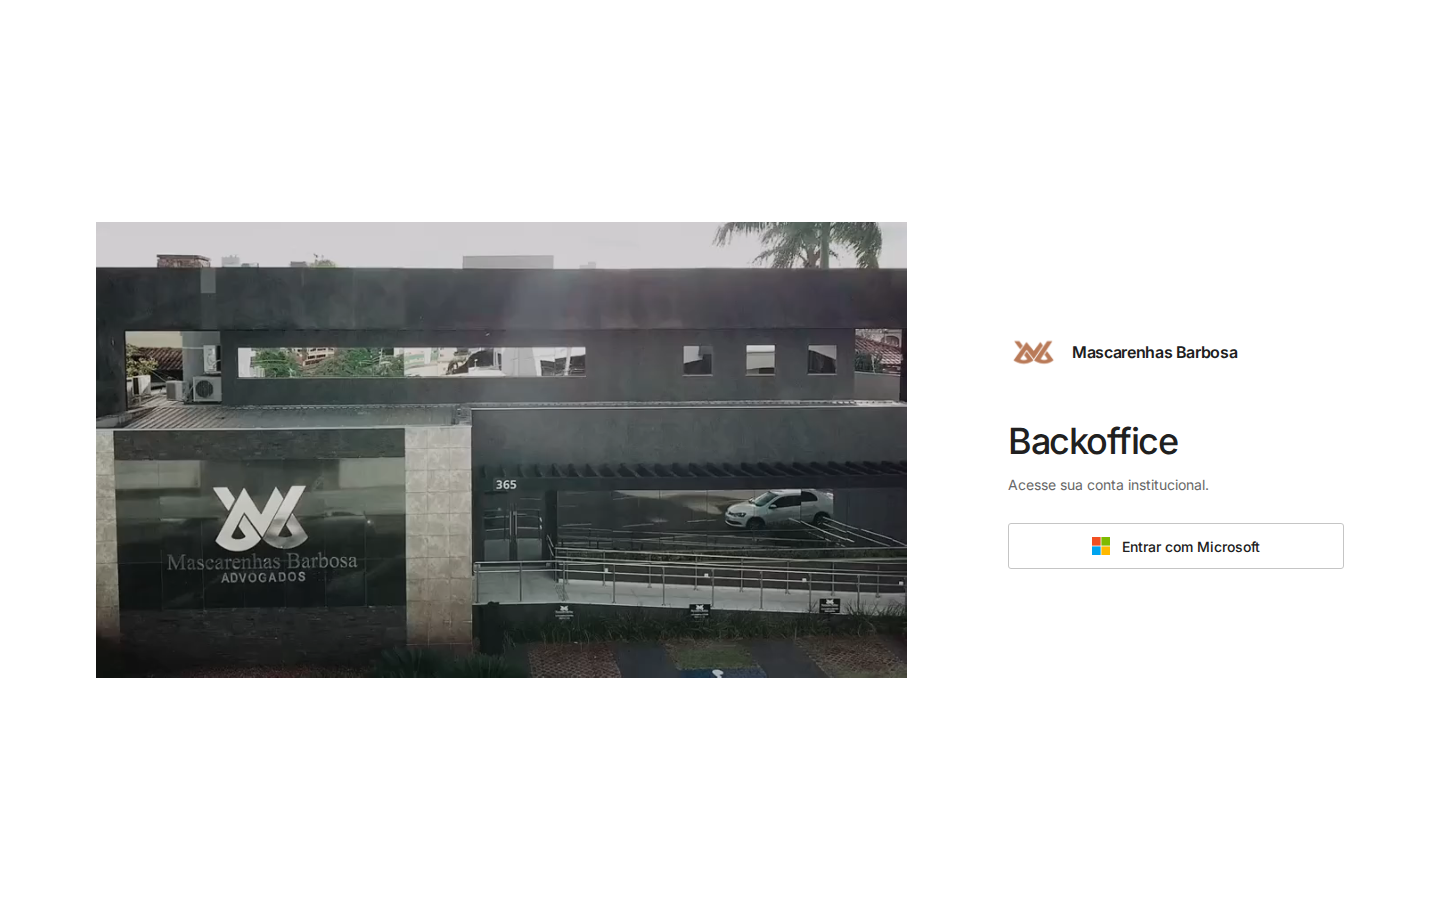
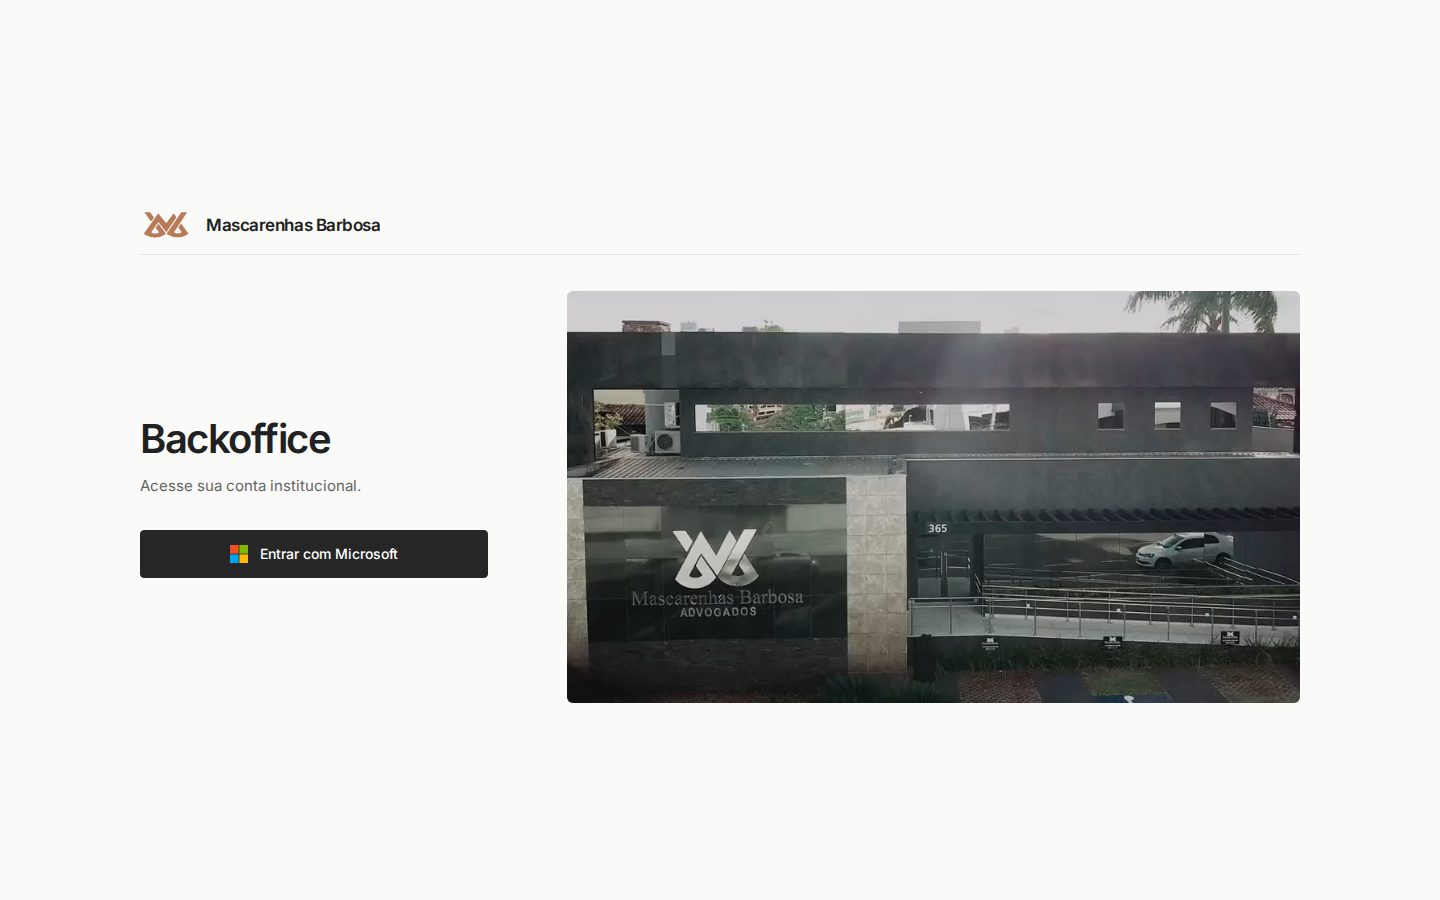
design: restore lateral Backoffice login and validate responsive composition

diff --git a/prototypes/landing.html b/prototypes/landing.html
@@ -2,54 +2,100 @@
 <html lang="pt-BR">
 <head>
 <meta charset="utf-8">
-<meta name="viewport" content="width=device-width,initial-scale=1">
+<meta name="viewport" content="width=device-width, initial-scale=1">
 <title>Backoffice | Mascarenhas Barbosa</title>
 <link rel="icon" href="../favicon-copper.svg">
 <link rel="preconnect" href="https://fonts.googleapis.com">
 <link rel="preconnect" href="https://fonts.gstatic.com" crossorigin>
 <link href="https://fonts.googleapis.com/css2?family=Inter:wght@400;500;600&display=swap" rel="stylesheet">
 <style>
-:root{color-scheme:light;--ink:#202020;--muted:#686868;--paper:#fff;--copper:#b97a58}
-*{box-sizing:border-box}
-html,body{margin:0;min-height:100%;background:var(--paper);color:var(--ink);font-family:Inter,Arial,sans-serif;-webkit-font-smoothing:antialiased}
-.page{min-height:100vh;min-height:100svh;display:grid;place-items:center;padding:64px 56px}
-.composition{width:100%;max-width:1248px;display:grid;grid-template-columns:minmax(0,1fr) minmax(280px,336px);gap:clamp(56px,7vw,104px);align-items:center}
-.film{width:100%;aspect-ratio:910/512;margin:0;background:#e9e9e7;overflow:hidden}
-.film video{display:block;width:100%;height:100%;object-fit:contain}
-.access{min-width:0}
-.brand{display:flex;align-items:center;gap:13px;margin-bottom:46px}
-.brand img{display:block;width:51px;height:43px;object-fit:contain;flex:none}
-.brand-name{font-size:16px;font-weight:600;letter-spacing:-.35px;line-height:1.25}
-h1{font-size:36px;font-weight:500;line-height:1.2;letter-spacing:-1.5px;margin:0 0 10px}
-.description{font-size:14px;line-height:1.65;color:var(--muted);margin:0 0 27px}
-.microsoft{width:100%;min-height:46px;display:flex;align-items:center;justify-content:center;gap:12px;padding:12px 16px;border:1px solid #c5c5c5;border-radius:3px;background:white;color:var(--ink);font:500 14px Inter,Arial,sans-serif;cursor:pointer}
-.microsoft svg{width:18px;height:18px;flex:none}
-.microsoft:hover{background:#f6f6f6;border-color:#969696}
-.microsoft:focus-visible{outline:2px solid #946044;outline-offset:3px}
-.status{font-size:13px;color:var(--muted);line-height:1.5;margin:14px 0 0}.status[hidden]{display:none}
-@media(max-width:1024px){.page{padding:48px 36px}.composition{grid-template-columns:minmax(0,1fr) minmax(260px,300px);gap:48px}}
-@media(max-width:720px){.page{padding:36px 26px;place-items:center}.composition{max-width:440px;grid-template-columns:1fr;gap:32px}.access{display:contents}.brand{grid-row:1;margin:0}.film{grid-row:2}.credentials{grid-row:3}h1{font-size:32px}.description{margin-bottom:22px}}
-@media(prefers-reduced-motion:reduce){.film video{display:none}.film{background:#e9e9e7 url('../assets/mascarenhas-login-poster.jpg') center/contain no-repeat}}
+:root {
+  color-scheme: light;
+  --paper: #fafaf9;
+  --ink: #202120;
+  --muted: #646563;
+  --copper: #b97a58;
+  --line: #e2e1de;
+}
+*, *::before, *::after { box-sizing: border-box; }
+html, body { margin: 0; min-height: 100%; }
+body { background: var(--paper); color: var(--ink); font-family: Inter, Arial, sans-serif; -webkit-font-smoothing: antialiased; }
+.page { min-height: 100vh; min-height: 100svh; display: flex; flex-direction: column; justify-content: center; padding-block: 48px; }
+.frame { width: min(1160px, calc(100% - 112px)); margin-inline: auto; }
+.masthead { flex: none; }
+.masthead .frame { height: 58px; display: flex; align-items: center; border-bottom: 1px solid var(--line); }
+.brand { display: inline-flex; align-items: center; gap: 14px; }
+.brand img { display: block; width: 52px; height: 48px; object-fit: contain; }
+.brand-name { font-size: 17px; font-weight: 600; line-height: 1.3; letter-spacing: -.45px; }
+.main { flex: none; display: grid; align-items: center; padding-block: 36px 0; }
+.composition { display: grid; grid-template-columns: minmax(300px, 348px) minmax(0, 1fr); gap: clamp(48px, 5.5vw, 80px); align-items: center; }
+.access { min-width: 0; width: 100%; max-width: 348px; }
+h1 { margin: 0 0 12px; font-size: clamp(32px, 3vw, 40px); line-height: 1.15; letter-spacing: -1.5px; font-weight: 600; }
+.description { margin: 0 0 32px; font-size: 15px; line-height: 1.6; color: var(--muted); }
+.microsoft { width: 100%; display: flex; align-items: center; justify-content: center; gap: 12px; min-height: 48px; padding: 12px 16px; border: 1px solid #252625; border-radius: 4px; background: #252625; color: white; font: 500 14px/1.35 Inter, Arial, sans-serif; cursor: pointer; }
+.microsoft:hover { background: #3d3e3d; border-color: #3d3e3d; }
+.microsoft svg { width: 18px; height: 18px; flex: none; }
+button:focus-visible { outline: 2px solid #946044; outline-offset: 3px; }
+.film { position: relative; margin: 0; width: 100%; aspect-ratio: 910 / 512; background: #e6e5e2; overflow: hidden; border-radius: 6px; }
+.film video { display: block; width: 100%; height: 100%; object-fit: contain; }
+.playback { position: absolute; bottom: 12px; right: 12px; background: #fff; color: #202120; border: 1px solid #d9d9d7; border-radius: 4px; padding: 8px 10px; font: 500 12px Inter, Arial, sans-serif; cursor: pointer; opacity: 0; }
+.film:hover .playback, .playback:focus-visible { opacity: 1; }
+.status { color: var(--muted); font-size: 13px; line-height: 1.5; margin: 16px 0 0; }
+.status[hidden] { display: none; }
+@media (max-width: 1100px) {
+  .frame { width: calc(100% - 96px); }
+  .composition { grid-template-columns: minmax(260px, 33%) minmax(0, 1fr); gap: 48px; }
+}
+@media (max-width: 900px) {
+  .page { justify-content: flex-start; padding-block: 0; }
+  .frame { width: min(480px, calc(100% - 48px)); }
+  .masthead .frame { height: 76px; }
+  .brand img { width: 42px; height: 38px; }
+  .brand { gap: 11px; }
+  .brand-name { font-size: 16px; }
+  .main { align-items: start; padding-block: 48px 40px; }
+  .composition { max-width: 480px; grid-template-columns: 1fr; gap: 48px; }
+  .access { max-width: none; }
+  h1 { font-size: 34px; }
+  .description { margin-bottom: 26px; }
+}
+@media (hover: none) { .playback { opacity: 1; } }
+@media (max-width: 400px) { .main { padding-top: 40px; } .composition { gap: 40px; } }
+@media (prefers-reduced-motion: reduce) { .film video { display: none; } .film { background: #e6e5e2 url('../assets/mascarenhas-login-poster.jpg') center/contain no-repeat; } .playback { display: none; } }
 </style>
 </head>
 <body>
-<main class="page">
-<div class="composition">
-<figure class="film"><video autoplay muted loop playsinline preload="metadata" poster="../assets/mascarenhas-login-poster.jpg" aria-label="Vídeo institucional do Mascarenhas Barbosa"><source src="../assets/mascarenhas-login.mp4" type="video/mp4"></video></figure>
-<section class="access" aria-labelledby="access-title">
-<div class="brand"><img src="../favicon-copper.svg" alt=""><span class="brand-name">Mascarenhas Barbosa</span></div>
-<div class="credentials">
-<h1 id="access-title">Backoffice</h1>
-<p class="description">Acesse sua conta institucional.</p>
-<button type="button" class="microsoft" id="microsoft"><svg viewBox="0 0 23 23" aria-hidden="true"><rect width="11" height="11" fill="#f25022"/><rect x="12" width="11" height="11" fill="#7fba00"/><rect y="12" width="11" height="11" fill="#00a4ef"/><rect x="12" y="12" width="11" height="11" fill="#ffb900"/></svg>Entrar com Microsoft</button>
-<p class="status" id="status" role="status" hidden>Protótipo visual. A autenticação não está conectada neste ambiente.</p>
-</div></section>
+<div class="page">
+  <header class="masthead">
+    <div class="frame"><div class="brand"><img src="../favicon-copper.svg" alt=""><span class="brand-name">Mascarenhas Barbosa</span></div></div>
+  </header>
+  <main class="main">
+    <div class="frame composition">
+      <section class="access" aria-labelledby="access-title">
+        <h1 id="access-title">Backoffice</h1>
+        <p class="description">Acesse sua conta institucional.</p>
+        <button class="microsoft" type="button" id="microsoft">
+          <svg viewBox="0 0 23 23" aria-hidden="true"><rect width="11" height="11" fill="#f25022"/><rect x="12" width="11" height="11" fill="#7fba00"/><rect y="12" width="11" height="11" fill="#00a4ef"/><rect x="12" y="12" width="11" height="11" fill="#ffb900"/></svg>
+          Entrar com Microsoft
+        </button>
+        <p class="status" id="status" role="status" hidden>Protótipo visual. A autenticação não está conectada neste ambiente.</p>
+      </section>
+      <figure class="film" aria-label="Vídeo institucional do Mascarenhas Barbosa">
+        <video autoplay muted loop playsinline preload="metadata" poster="../assets/mascarenhas-login-poster.jpg" aria-label="Vídeo institucional"><source src="../assets/mascarenhas-login.mp4" type="video/mp4"></video>
+        <button class="playback" type="button" id="playback">Pausar vídeo</button>
+      </figure>
+    </div>
+  </main>
 </div>
-</main>
 <script>
-const video=document.querySelector('video');
-if(matchMedia('(prefers-reduced-motion: reduce)').matches){video.autoplay=false;video.pause();}
-document.querySelector('#microsoft').addEventListener('click',()=>{document.querySelector('#status').hidden=false;});
+const video = document.querySelector('video');
+const playback = document.querySelector('#playback');
+if (matchMedia('(prefers-reduced-motion: reduce)').matches) { video.autoplay = false; video.pause(); }
+playback.addEventListener('click', async () => {
+  if (video.paused) { await video.play(); } else { video.pause(); }
+  playback.textContent = video.paused ? 'Reproduzir vídeo' : 'Pausar vídeo';
+});
+document.querySelector('#microsoft').addEventListener('click', () => { document.querySelector('#status').hidden = false; });
 </script>
 </body>
 </html>
